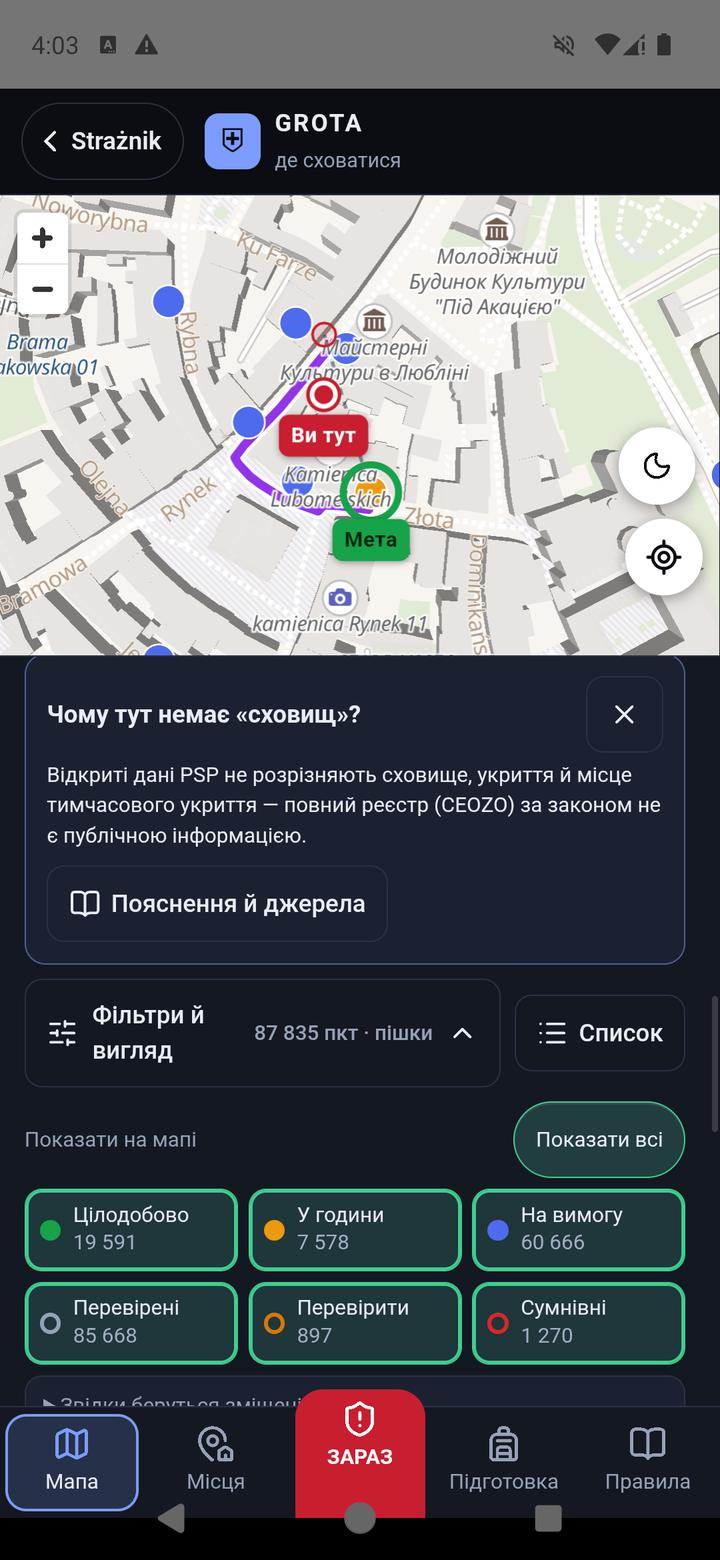
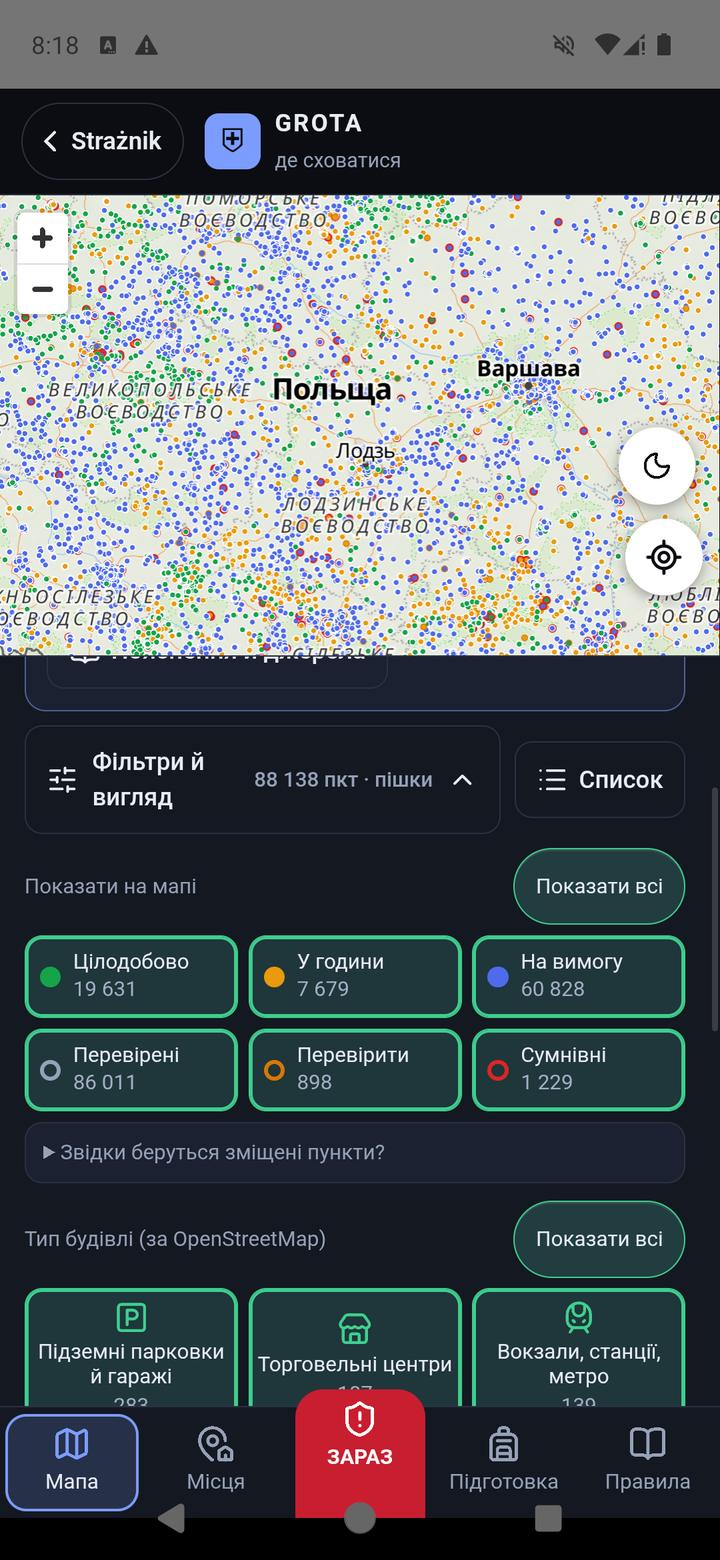
Instrukcja GROTY: zrzuty do wykazu z 02.11 i ostrzezenie kategoryczne
Wymienione g13 (liczniki filtrow), g29 (data wykazu) i g31 (ostrzezenie o
zmianie wykazu) w PL/EN/UK. g32 zostaje: spis miejscowosci nie zalezy od wykazu
PSP i po przebudowie wyszedl bajt w bajt taki sam.

g31 pokazuje teraz wariant KATEGORYCZNY ("Zapisane tu schronienie: ...",
"wybor nowego miejsca schronienia jest konieczny") — decyzja usera. Od 1.8.01
aplikacja zapamietuje date wykazu przy zapisie, a wszystkie wydania 1.8.02-1.8.05
niosly wykaz z 26.10, wiec po wejsciu wykazu z 02.11 to jest wariant, ktory
zobaczy kazdy normalnie aktualizujacy sie czlowiek. Wariant warunkowy zostaje
opisany slowami w rozdziale.

Przyklad na zrzucie: ul. Spacerowa 51, Peczniew (gm. Peczniew) — pod tym samym
numerem jest teraz ul. Polna 13/15, Poddebice, 19 km dalej.

Dwie rzeczy o metodzie, obie opisane w docs/screens/README.md:
- wszystkie dziewiec klatek pochodzi z budowy DEBUGOWEJ 1.8.06-136-TEST, bo
  wydanie bez DevTools wieszalo sie na emulatorze przy kazdym dluzszym
  przewijaniu (takze po restarcie z 4 GB zamiast 2 GB). Obie budowy sa z tego
  samego commita, maja ten sam modul i paczke, a na tych ekranach nic nie zalezy
  od typu budowy. Zrobione wczesniej polskie g13 i g29 z budowy podpisanej
  wyrzucilem, zeby kazdy ekran pochodzil z jednej budowy.
- stan do g31 zostal wpisany do pamieci aplikacji, bo przejscie go przez
  interfejs (1.8.05 -> zapis -> aktualizacja) padlo trzy razy na zawieszeniu przy
  przeliczaniu. Wpisane jest jedno miejsce z tym schronieniem i data wykazu
[…]

diff --git a/docs/grota-uk.html b/docs/grota-uk.html
@@ -29,7 +29,7 @@
     <h1>GROTA — де сховатися</h1>
     <p class="lead">GROTA — частина застосунку Strażnik («Вартовий»). Під час повітряної тривоги вона показує <b>найближчі місця укриття</b> з публічного переліку Державної пожежної служби Польщі (PSP) і веде до них. Заздалегідь допомагає зберегти укриття біля дому, роботи й школи, завантажити мапу на випадок відсутності інтернету та підготуватися за польським урядовим «Порадником безпеки».</p>
     <div class="actions"><a class="button primary" href="https://play.google.com/store/apps/details?id=pl.straznik.app">↓ Strażnik у Google Play</a><a class="button" href="https://github.com/cukierrro/Straznik/releases/latest/download/Straznik.apk">↓ Завантажити Strażnik для Android</a><a class="button" href="en.html">Посібник Strażnik (англійською)</a></div>
-    <p class="fineprint">З версії 1.7.72 GROTA працює <b>українською</b>, англійською та польською (розділ 8). Сам Strażnik (поза GROTA) має польську й англійську мови, тому його кнопки подаємо польською, а в дужках — англійською. Знімки: 22 вересня 2026, емулятор, позиція в Старому місті Любліна; списки підготовки і вкладку Правила перезняли 26 вересня 2026 у випуску 1.7.80, мапу й фільтри — 19 жовтня 2026 у випуску 1.7.99, а фільтри, дату переліку PSP і новий екран пошуку без інтернету — 26 жовтня 2026; попередження про зміну переліку зняте того ж дня на випуску 1.8.02, через справжнє оновлення зі старішої версії; адреси з переліку PSP залишаються польською. GROTA працює в застосунках для Android та iPhone; у браузерній версії її немає. Торкніться знімка, щоб відкрити його повністю. Переклад посібника — машинний з перевіркою; якщо помітите помилку, напишіть нам.</p>
+    <p class="fineprint">З версії 1.7.72 GROTA працює <b>українською</b>, англійською та польською (розділ 8). Сам Strażnik (поза GROTA) має польську й англійську мови, тому його кнопки подаємо польською, а в дужках — англійською. Знімки: 22 вересня 2026, емулятор, позиція в Старому місті Любліна; списки підготовки і вкладку Правила перезняли 26 вересня 2026 у випуску 1.7.80, мапу й фільтри — 19 жовтня 2026 у випуску 1.7.99, новий екран пошуку без інтернету — 26 жовтня 2026, а фільтри, дату переліку PSP і попередження про зміну переліку — 2 листопада 2026, після виходу переліку з того дня; адреси з переліку PSP залишаються польською. GROTA працює в застосунках для Android та iPhone; у браузерній версії її немає. Торкніться знімка, щоб відкрити його повністю. Переклад посібника — машинний з перевіркою; якщо помітите помилку, напишіть нам.</p>
   </div>
   <a class="shot-link" href="screens/grota/g04-teraz-propozycja-uk.jpg"><img src="screens/grota/g04-teraz-propozycja-uk.jpg" width="720" height="1560" alt="Екран ЗАРАЗ у GROTA: мапа Старого міста Любліна з маршрутом від «Ви тут» до мети, під нею картка «Найближче перевірене укриття — ul. Złota 2, Lublin» і велика зелена кнопка ВЕСТИ"></a>
 </div></header>
@@ -114,7 +114,7 @@
   <div class="shots"><figure><a class="shot-link" href="screens/grota/g30-lista-uk.jpg"><img loading="lazy" src="screens/grota/g30-lista-uk.jpg" width="720" height="1560" alt="Список найближчих пунктів: ul. Podwale 11 69 м, ul. Podwale 11 78 м, ul. Grodzka 5 102 м, ul. Zlota 2 107 м — з часом пішки, доступом і видом об'єкта"></a><figcaption>Ті самі пункти, що й на мапі, словами.</figcaption></figure></div>
   <h3>Фільтри й вигляд</h3>
   <p><kbd>Фільтри й вигляд</kbd> під мапою дозволяє показати лише вибрані пункти: за доступом (<kbd>Цілодобово</kbd>, <kbd>У години</kbd>, <kbd>На вимогу</kbd>), за певністю розташування (<kbd>Перевірені</kbd>, <kbd>Перевірити</kbd>, <kbd>Сумнівні</kbd>) і за <b>типом будівлі</b> (11 груп, наприклад підземні паркінги, багатоквартирні будинки, школи, лікарні). Кожна кнопка вмикає або вимикає свою групу; <kbd>Показати всі</kbd> позначає все, а натиснута ще раз — знімає позначки. Тут також вибираєте <kbd>Пішки</kbd>, <kbd>Велосипед</kbd> або <kbd>Автомобіль</kbd>.</p>
-  <div class="shots"><figure><a class="shot-link" href="screens/grota/g13-mapa-filtry-uk.jpg"><img loading="lazy" src="screens/grota/g13-mapa-filtry-uk.jpg" width="720" height="1560" alt="Фільтри: Цілодобово 19 591, У години 7 578, На вимогу 60 666, Перевірені 85 668, Перевірити 897, Сумнівні 1 270"></a><figcaption>Фільтри доступу і певності.</figcaption></figure><figure><a class="shot-link" href="screens/grota/g14-mapa-rodzaje-uk.jpg"><img loading="lazy" src="screens/grota/g14-mapa-rodzaje-uk.jpg" width="720" height="1560" alt="Тип будівлі (за OpenStreetMap): підземні паркінги, торгові центри, вокзали, багатоквартирні будинки, будинки, школи, лікарні, установи, офіси, культура, невідомий"></a><figcaption>Тип будівлі.</figcaption></figure></div>
+  <div class="shots"><figure><a class="shot-link" href="screens/grota/g13-mapa-filtry-uk.jpg"><img loading="lazy" src="screens/grota/g13-mapa-filtry-uk.jpg" width="720" height="1560" alt="Розгорнуті фільтри: Цілодобово 19 631, У години 7 679, На вимогу 60 828, Перевірені 86 011, Перевірити 898, Сумнівні 1 229, а нижче типи будівель — підземні паркінги й гаражі 283, торговельні центри 187, вокзали, станції, метро 139"></a><figcaption>Фільтри доступу і певності.</figcaption></figure><figure><a class="shot-link" href="screens/grota/g14-mapa-rodzaje-uk.jpg"><img loading="lazy" src="screens/grota/g14-mapa-rodzaje-uk.jpg" width="720" height="1560" alt="Тип будівлі (за OpenStreetMap): підземні паркінги, торгові центри, вокзали, багатоквартирні будинки, будинки, школи, лікарні, установи, офіси, культура, невідомий"></a><figcaption>Тип будівлі.</figcaption></figure></div>
   <div class="note">Фільтр мапи діє <b>лише на мапу</b>. ЗАРАЗ завжди шукає серед усіх перевірених пунктів, якщо ви самі не звузили вибір у «Вести до пунктів».</div>
   <p><b>Чому тут немає «сховищ»?</b> Під час першого відкриття GROTA пояснює, що публічні дані PSP не розрізняють сховище, укриття і тимчасове місце захисту, а повний реєстр за законом не є публічним. <kbd>Пояснення й джерела</kbd> веде до Правил.</p>
 </section>
@@ -139,7 +139,7 @@
     <li>Записаний маршрут до такого пункту застарів — GROTA ним не поведе і пояснить чому.</li>
     <li>Таке саме попередження побачите, коли пункт зникне з переліку (26 жовтня їх убуло 300).</li>
   </ul>
-  <div class="shots"><figure><a class="shot-link" href="screens/grota/g31-zmiana-wykazu-uk.jpg"><img loading="lazy" src="screens/grota/g31-zmiana-wykazu-uk.jpg" width="720" height="1560" alt="Картка місця Dom (укриття 1/3, пішки) з попередженням: Перелік PSP змінився — перевірте збережені укриття. У переліку PSP від 2026-09-14 під цим номером був 51a, Kromolice, гміна Pogorzela, а в переліку від 2026-10-26 тут os. Osiedle Gawrony 2, Gostyń — за 23 км; нова будівля зачинена («На вимогу»). Кнопки Вибрати нове укриття і Залишаю як є"></a><figcaption>Попередження після оновлення зі старішого випуску: два різні переліки й умовне «якщо тут збережено».</figcaption></figure></div>
+  <div class="shots"><figure><a class="shot-link" href="screens/grota/g31-zmiana-wykazu-uk.jpg"><img loading="lazy" src="screens/grota/g31-zmiana-wykazu-uk.jpg" width="720" height="1560" alt="Картка місця Dom (укриття 1/3, пішки) з попередженням: Перелік PSP змінився — перевірте збережені укриття. Збережене тут укриття: ul. Spacerowa 51, Pęczniew, гміна Pęczniew; у переліку PSP від 2026-11-02 під тим самим номером тепер інша будівля: ul. Polna 13/15, Poddębice — за 19 км. Вибір нового місця укриття є обов’язковим. Кнопки Вибрати нове укриття і Залишаю як є"></a><figcaption>Попередження біля укриття, збереженого перед зміною переліку.</figcaption></figure></div>
   <h3>Подробиці, нотатки й редагування</h3>
   <p>У подробицях місця видно розташування, <b>«Моє місце в будівлі»</b> (наприклад «коридор на першому поверсі, без вікон» — де сховатися, якщо не встигнете вийти) і вибрані укриття. Біля кожного укриття є поле <b>«Як увійти — години, хто відчиняє, контакт управителя (ваша нотатка)»</b>. Його варто заповнити після розмови з управителем. Олівець відкриває редагування: назва, розташування, вид, ваше місце в будівлі з прапорцем <b>«Я перевірив це місце на місці»</b>, короткий список підготовки і спосіб пересування. Зміни зберігаються самі. Кошик видаляє місце, а ручка ⋮⋮ змінює порядок.</p>
   <div class="shots"><figure><a class="shot-link" href="screens/grota/g17-miejsce-szczegoly-uk.jpg"><img loading="lazy" src="screens/grota/g17-miejsce-szczegoly-uk.jpg" width="720" height="1560" alt="Подробиці місця Дім: розташування, моє місце в будівлі, перевірене; пересування пішки"></a><figcaption>Подробиці місця.</figcaption></figure><figure><a class="shot-link" href="screens/grota/g18-miejsce-schronienia-uk.jpg"><img loading="lazy" src="screens/grota/g18-miejsce-schronienia-uk.jpg" width="720" height="1560" alt="Мої укриття 2/3: ul. Złota 2 з нотаткою і записаним маршрутом"></a><figcaption>Укриття з нотаткою і записаним маршрутом.</figcaption></figure></div>
@@ -175,7 +175,7 @@
 <section id="zasady">
   <h2>7. Вкладка Правила</h2>
 <p>GROTA не створює власних процедур. Кожна порада у вкладці <kbd>Правила</kbd> — цитата з польського урядового «Порадника безпеки» («Poradnik bezpieczeństwa», 1/2025) з номером сторінки: що робити, почувши сигнал тривоги, повітряна атака, укриття (що робити, якщо не встигаєте), евакуація, підготовка оточення і план на випадок кризи. Від випуску 1.7.80 є також окремий розділ <b>«Інструкція реагування МВС Польщі»</b> — цитати з матеріалу МВС Польщі та Державної пожежної служби від 25 вересня 2026 року: як вибрати приміщення, правило двох стін, коли не спускатися в підвал і де стати в підземному гаражі. Далі пояснення: чого порадник не визначає, чому в GROTA немає «сховищ», <b>наскільки свіжі пункти</b> (дата реєстру PSP і їх кількість, взяті прямо з пакета даних), обмеження даних, звідки беруться зміщені пункти, і джерела. <kbd>Закрити</kbd> повертає до попередньої вкладки.</p>
-  <div class="shots"><figure><a class="shot-link" href="screens/grota/g28-zasady-instrukcja-uk.jpg"><img loading="lazy" src="screens/grota/g28-zasady-instrukcja-uk.jpg" width="720" height="1560" alt="Розділ Інструкція реагування МВС Польщі у вкладці Правила: пояснення, що це за матеріал від 25 вересня 2026 року, і правило Коли встигаєте до пункту укриття зі сторінкою 4"></a><figcaption>Правила з інструкції МВС.</figcaption></figure><figure><a class="shot-link" href="screens/grota/g29-zasady-dane-uk.jpg"><img loading="lazy" src="screens/grota/g29-zasady-dane-uk.jpg" width="720" height="1560" alt="Розділ Наскільки свіжі пункти: пункти з відкритого реєстру Державної пожежної служби, станом на 26.10.2026, 87 835 у цій версії застосунку"></a><figcaption>Дата реєстру PSP.</figcaption></figure></div>
+  <div class="shots"><figure><a class="shot-link" href="screens/grota/g28-zasady-instrukcja-uk.jpg"><img loading="lazy" src="screens/grota/g28-zasady-instrukcja-uk.jpg" width="720" height="1560" alt="Розділ Інструкція реагування МВС Польщі у вкладці Правила: пояснення, що це за матеріал від 25 вересня 2026 року, і правило Коли встигаєте до пункту укриття зі сторінкою 4"></a><figcaption>Правила з інструкції МВС.</figcaption></figure><figure><a class="shot-link" href="screens/grota/g29-zasady-dane-uk.jpg"><img loading="lazy" src="screens/grota/g29-zasady-dane-uk.jpg" width="720" height="1560" alt="Розділ Наскільки свіжі пункти: пункти з відкритого реєстру Державної пожежної служби, станом на 02.11.2026, 88 138 у цій версії застосунку"></a><figcaption>Дата реєстру PSP.</figcaption></figure></div>
 </section>
 
 <section id="jezyk">

diff --git a/docs/grota.html b/docs/grota.html
@@ -29,7 +29,7 @@
     <h1>GROTA — gdzie się schronić</h1>
     <p class="lead">GROTA to część aplikacji Strażnik. Przy alarmie pokazuje <b>najbliższe miejsca schronienia</b> z publicznego wykazu Państwowej Straży Pożarnej i prowadzi do nich. Zawczasu pomaga zapisać schronienia przy domu, pracy i szkole, pobrać mapę na wypadek braku internetu i przygotować się według „Poradnika bezpieczeństwa”.</p>
     <div class="actions"><a class="button primary" href="https://play.google.com/store/apps/details?id=pl.straznik.app">↓ Strażnik w Google Play</a><a class="button" href="https://github.com/cukierrro/Straznik/releases/latest/download/Straznik.apk">↓ Pobierz Strażnika na Androida</a><a class="button" href="index.html">Instrukcja Strażnika</a></div>
-    <p class="fineprint">Zrzuty zrobiono 22 września 2026 w Strażniku 1.7.68, z pozycją na Starym Mieście w Lublinie; listy przygotowań i zakładkę Zasady odświeżono 26 września 2026 w wydaniu 1.7.80, mapę i filtry 19 października 2026 w wydaniu 1.7.99, a filtry, datę wykazu PSP i nowy ekran szukania bez internetu — 26 października 2026; ostrzeżenie o zmianie wykazu zrobiono tego samego dnia na wydaniu 1.8.02, przechodząc prawdziwą aktualizację ze starszej wersji. Adresy na zrzutach pochodzą z publicznego wykazu PSP. GROTA działa w aplikacji na Androida i na iPhone'a; <b>nie ma jej w wersji przeglądarkowej</b>. Od wersji 1.7.72 mówi po polsku, angielsku i ukraińsku (rozdział 8). Dotknij zdjęcia, aby otworzyć je w pełnym rozmiarze.</p>
+    <p class="fineprint">Zrzuty zrobiono 22 września 2026 w Strażniku 1.7.68, z pozycją na Starym Mieście w Lublinie; listy przygotowań i zakładkę Zasady odświeżono 26 września 2026 w wydaniu 1.7.80, mapę i filtry 19 października 2026 w wydaniu 1.7.99, nowy ekran szukania bez internetu — 26 października 2026, a filtry, datę wykazu PSP i ostrzeżenie o zmianie wykazu — 2 listopada 2026, po wejściu wykazu z tego dnia. Adresy na zrzutach pochodzą z publicznego wykazu PSP. GROTA działa w aplikacji na Androida i na iPhone'a; <b>nie ma jej w wersji przeglądarkowej</b>. Od wersji 1.7.72 mówi po polsku, angielsku i ukraińsku (rozdział 8). Dotknij zdjęcia, aby otworzyć je w pełnym rozmiarze.</p>
   </div>
   <a class="shot-link" href="screens/grota/g04-teraz-propozycja.jpg"><img src="screens/grota/g04-teraz-propozycja.jpg" width="720" height="1560" alt="Ekran TERAZ w GROCIE: mapa Starego Miasta w Lublinie z trasą od „Tu jesteś” do celu, a pod nią karta „Najbliższe sprawdzone miejsce schronienia — ul. Złota 2, Lublin, 218 m, ok. 3 min trasą” i duży zielony przycisk PROWADŹ"></a>
 </div></header>
@@ -114,7 +114,7 @@
   <div class="shots"><figure><a class="shot-link" href="screens/grota/g30-lista.jpg"><img loading="lazy" src="screens/grota/g30-lista.jpg" width="720" height="1560" alt="Lista najbliższych punktów: ul. Podwale 11 69 m, ul. Podwale 11 78 m, ul. Grodzka 5 102 m, ul. Złota 2 107 m — z czasem dojścia, dostępem i rodzajem obiektu"></a><figcaption>Te same punkty co na mapie, do przeczytania.</figcaption></figure></div>
   <h3>Filtry i widok</h3>
   <p><kbd>Filtry i widok</kbd> pod mapą pozwala pokazać tylko wybrane punkty: według dostępu (<kbd>Całodobowo</kbd>, <kbd>W godzinach</kbd>, <kbd>Na żądanie</kbd>), pewności położenia (<kbd>Sprawdzone</kbd>, <kbd>Do sprawdzenia</kbd>, <kbd>Wątpliwe</kbd>) i <b>rodzaju budynku</b> (11 grup, np. parkingi podziemne, bloki, szkoły, szpitale). Każdy przycisk włącza albo wyłącza swoją grupę; <kbd>Pokaż wszystkie</kbd> zaznacza wszystko, a naciśnięte ponownie — odznacza. Tu też wybierasz <kbd>Pieszo</kbd>, <kbd>Rower</kbd> albo <kbd>Samochód</kbd>.</p>
-  <div class="shots"><figure><a class="shot-link" href="screens/grota/g13-mapa-filtry.jpg"><img loading="lazy" src="screens/grota/g13-mapa-filtry.jpg" width="720" height="1560" alt="Filtry: Całodobowo 19 591, W godzinach 7578, Na żądanie 60 666, Sprawdzone 85 668, Do sprawdzenia 897, Wątpliwe 1270"></a><figcaption>Filtry dostępu i pewności.</figcaption></figure><figure><a class="shot-link" href="screens/grota/g14-mapa-rodzaje.jpg"><img loading="lazy" src="screens/grota/g14-mapa-rodzaje.jpg" width="720" height="1560" alt="Rodzaj budynku wg OpenStreetMap: parkingi podziemne, centra handlowe, dworce, bloki, domy, szkoły, szpitale, urzędy, biura, kultura, rodzaj nieznany"></a><figcaption>Rodzaj budynku.</figcaption></figure></div>
+  <div class="shots"><figure><a class="shot-link" href="screens/grota/g13-mapa-filtry.jpg"><img loading="lazy" src="screens/grota/g13-mapa-filtry.jpg" width="720" height="1560" alt="Rozwinięte filtry: Całodobowo 19 631, W godzinach 7679, Na żądanie 60 828, Sprawdzone 86 011, Do sprawdzenia 898, Wątpliwe 1229, a niżej rodzaje budynku — parkingi podziemne i garaże 283, centra handlowe 187, dworce, stacje, metro 139"></a><figcaption>Filtry dostępu i pewności.</figcaption></figure><figure><a class="shot-link" href="screens/grota/g14-mapa-rodzaje.jpg"><img loading="lazy" src="screens/grota/g14-mapa-rodzaje.jpg" width="720" height="1560" alt="Rodzaj budynku wg OpenStreetMap: parkingi podziemne, centra handlowe, dworce, bloki, domy, szkoły, szpitale, urzędy, biura, kultura, rodzaj nieznany"></a><figcaption>Rodzaj budynku.</figcaption></figure></div>
   <div class="note">Filtr mapy dotyczy <b>tylko mapy</b>. TERAZ zawsze szuka wśród wszystkich sprawdzonych punktów, chyba że sam zawęzisz wybór w „Prowadź do punktów”.</div>
   <p><b>Czemu nie ma tu „schronów”?</b> Przy pierwszym wejściu GROTA wyjaśnia, że publiczne dane PSP nie rozróżniają schronu, ukrycia i miejsca doraźnego schronienia, a pełna ewidencja z mocy ustawy nie jest jawna. <kbd>Wyjaśnienie i źródła</kbd> prowadzi do Zasad.</p>
 </section>
@@ -139,7 +139,7 @@
     <li>Nagrana trasa do takiego punktu jest nieaktualna — GROTA nią nie poprowadzi i powie dlaczego.</li>
     <li>To samo ostrzeżenie zobaczysz, gdy punkt zniknie z wykazu (26 października ubyło ich 300).</li>
   </ul>
-  <div class="shots"><figure><a class="shot-link" href="screens/grota/g31-zmiana-wykazu.jpg"><img loading="lazy" src="screens/grota/g31-zmiana-wykazu.jpg" width="720" height="1560" alt="Karta miejsca Dom (schronienia 1/3, pieszo) z ostrzeżeniem: Zmienił się wykaz PSP — sprawdź zapisane schronienia. W wykazie PSP z 2026-09-14 pod tym numerem był 51a, Kromolice, gm. Pogorzela, a w wykazie z 2026-10-26 jest tu os. Osiedle Gawrony 2, Gostyń — 23 km dalej; nowy obiekt jest zamknięty („Na żądanie”). Przyciski Wybierz nowe schronienie i Zostawiam jak jest"></a><figcaption>Ostrzeżenie po aktualizacji ze starszego wydania: dwa różne wykazy i warunkowe „jeśli zapisano tu”.</figcaption></figure></div>
+  <div class="shots"><figure><a class="shot-link" href="screens/grota/g31-zmiana-wykazu.jpg"><img loading="lazy" src="screens/grota/g31-zmiana-wykazu.jpg" width="720" height="1560" alt="Karta miejsca Dom (schronienia 1/3, pieszo) z ostrzeżeniem: Zmienił się wykaz PSP — sprawdź zapisane schronienia. Zapisane tu schronienie: ul. Spacerowa 51, Pęczniew, gm. Pęczniew; w wykazie PSP z 2026-11-02 pod tym samym numerem jest teraz inny obiekt: ul. Polna 13/15, Poddębice — 19 km dalej. Wybór nowego miejsca schronienia jest konieczny. Przyciski Wybierz nowe schronienie i Zostawiam jak jest"></a><figcaption>Ostrzeżenie przy schronieniu zapisanym przed zmianą wykazu.</figcaption></figure></div>
   <h3>Szczegóły, notatki i edycja</h3>
   <p>W szczegółach miejsca widać położenie, <b>„Moje miejsce w budynku”</b> (np. „korytarz na parterze, bez okien” — gdzie się schować, gdy nie zdążysz wyjść) i wybrane schronienia. Przy każdym schronieniu jest pole <b>„Jak wejść — godziny, kto otwiera, kontakt do zarządcy (Twoja notatka)”</b>. Warto je wypełnić po rozmowie z zarządcą. Ołówek otwiera edycję: nazwa, położenie, rodzaj, miejsce w budynku z polem „Sprawdziłem to miejsce na miejscu”, skrócona lista kontrolna i środek transportu. Zmiany zapisują się same („✓ Zapisano”). Kosz usuwa miejsce, a uchwyt ⋮⋮ zmienia kolejność.</p>
   <div class="shots"><figure><a class="shot-link" href="screens/grota/g17-miejsce-szczegoly.jpg"><img loading="lazy" src="screens/grota/g17-miejsce-szczegoly.jpg" width="720" height="1560" alt="Szczegóły miejsca Dom: położenie Lublin, ul. Królewska 4, moje miejsce w budynku korytarz na parterze bez okien, sprawdzone, środek transportu Pieszo"></a><figcaption>Szczegóły miejsca.</figcaption></figure><figure><a class="shot-link" href="screens/grota/g18-miejsce-schronienia.jpg"><img loading="lazy" src="screens/grota/g18-miejsce-schronienia.jpg" width="720" height="1560" alt="Moje miejsca schronienia 2/3: ul. Złota 2 z notatką Czynne 8–20, klucz u portiera i nagraną trasą 240 m, 3 min 25 s"></a><figcaption>Schronienie z notatką i nagraną trasą.</figcaption></figure></div>
@@ -175,7 +175,7 @@
 <section id="zasady">
   <h2>7. Zakładka Zasady</h2>
 <p>GROTA nie tworzy własnych procedur. Każde zalecenie w zakładce <kbd>Zasady</kbd> to cytat z „Poradnika bezpieczeństwa” (Rząd RP, 1/2025) z numerem strony: co robić po usłyszeniu sygnału alarmowego, atak z powietrza, schronienia (co robić, gdy nie zdążysz), ewakuacja, przygotowanie otoczenia i plan na kryzys. Od wydania 1.7.80 jest też osobny dział <b>„Instrukcja reagowania MSWiA”</b> — cytaty z materiału MSWiA i Państwowej Straży Pożarnej z 25 września 2026: jak wybrać pomieszczenie, zasada dwóch ścian, kiedy nie schodzić do piwnicy i gdzie stanąć w garażu podziemnym. Dalej są wyjaśnienia: czego poradnik nie określa, dlaczego w GROCIE nie ma „schronów”, <b>z kiedy są punkty</b> (data wykazu PSP i ich liczba, brane wprost z paczki w aplikacji), jakie są ograniczenia danych, skąd biorą się przesunięte punkty i źródła. <kbd>Zamknij</kbd> wraca do poprzedniej zakładki.</p>
-  <div class="shots"><figure><a class="shot-link" href="screens/grota/g27-zasady.jpg"><img loading="lazy" src="screens/grota/g27-zasady.jpg" width="720" height="1560" alt="Góra zakładki Zasady: karta wyboru języka, wyjaśnienie skąd pochodzą zalecenia i pierwszy dział Sygnały alarmowe"></a><figcaption>Zasady z poradnika.</figcaption></figure><figure><a class="shot-link" href="screens/grota/g28-zasady-instrukcja.jpg"><img loading="lazy" src="screens/grota/g28-zasady-instrukcja.jpg" width="720" height="1560" alt="Dział Instrukcja reagowania MSWiA w zakładce Zasady: wyjaśnienie, czym jest materiał z 25 września 2026, i zasada Gdy zdążysz do punktu schronienia ze stroną 4"></a><figcaption>Zasady z instrukcji MSWiA.</figcaption></figure><figure><a class="shot-link" href="screens/grota/g29-zasady-dane.jpg"><img loading="lazy" src="screens/grota/g29-zasady-dane.jpg" width="720" height="1560" alt="Sekcja Z kiedy są punkty: punkty z wykazu Komendy Głównej PSP, stan na 26.10.2026, 87 835 punktów w tej wersji aplikacji"></a><figcaption>Data wykazu PSP.</figcaption></figure></div>
+  <div class="shots"><figure><a class="shot-link" href="screens/grota/g27-zasady.jpg"><img loading="lazy" src="screens/grota/g27-zasady.jpg" width="720" height="1560" alt="Góra zakładki Zasady: karta wyboru języka, wyjaśnienie skąd pochodzą zalecenia i pierwszy dział Sygnały alarmowe"></a><figcaption>Zasady z poradnika.</figcaption></figure><figure><a class="shot-link" href="screens/grota/g28-zasady-instrukcja.jpg"><img loading="lazy" src="screens/grota/g28-zasady-instrukcja.jpg" width="720" height="1560" alt="Dział Instrukcja reagowania MSWiA w zakładce Zasady: wyjaśnienie, czym jest materiał z 25 września 2026, i zasada Gdy zdążysz do punktu schronienia ze stroną 4"></a><figcaption>Zasady z instrukcji MSWiA.</figcaption></figure><figure><a class="shot-link" href="screens/grota/g29-zasady-dane.jpg"><img loading="lazy" src="screens/grota/g29-zasady-dane.jpg" width="720" height="1560" alt="Sekcja Z kiedy są punkty: punkty z wykazu Komendy Głównej PSP, stan na 02.11.2026, 88 138 punktów w tej wersji aplikacji"></a><figcaption>Data wykazu PSP.</figcaption></figure></div>
 </section>
 
 <section id="jezyk">

diff --git a/docs/grota-en.html b/docs/grota-en.html
@@ -29,7 +29,7 @@
     <h1>GROTA — where to take shelter</h1>
     <p class="lead">GROTA is part of the Strażnik app. During an alert it shows the <b>nearest shelter points</b> from the public list of Poland's State Fire Service (PSP) and guides you there. In advance, it helps you save shelters near your home, work and school, download a map for when there is no internet, and prepare following the Polish government's Safety Guide.</p>
     <div class="actions"><a class="button primary" href="https://play.google.com/store/apps/details?id=pl.straznik.app">↓ Strażnik on Google Play</a><a class="button" href="https://github.com/cukierrro/Straznik/releases/latest/download/Straznik.apk">↓ Get Strażnik for Android</a><a class="button" href="en.html">Strażnik user guide</a></div>
-    <p class="fineprint">Since version 1.7.72 GROTA speaks <b>English, Ukrainian and Polish</b> (section 8). Screenshots: 22 September 2026, emulator, position in Lublin's Old Town; the preparation checklists and the Rules tab were retaken on 26 September 2026 in release 1.7.80, the map and filters on 19 October 2026 in release 1.7.99, and the filters, the PSP list date and a new screen for searching without the internet on 26 October 2026; the register-change warning was taken the same day on release 1.8.02, by walking a real update from an older version; addresses come from the public PSP list and stay in Polish. GROTA works in the Android and iPhone apps; it is <b>not part of the browser version</b>. Tap a screenshot to open it full size.</p>
+    <p class="fineprint">Since version 1.7.72 GROTA speaks <b>English, Ukrainian and Polish</b> (section 8). Screenshots: 22 September 2026, emulator, position in Lublin's Old Town; the preparation checklists and the Rules tab were retaken on 26 September 2026 in release 1.7.80, the map and filters on 19 October 2026 in release 1.7.99, a new screen for searching without the internet on 26 October 2026, and the filters, the PSP list date and the register-change warning on 2 November 2026, after that day's register came in; addresses come from the public PSP list and stay in Polish. GROTA works in the Android and iPhone apps; it is <b>not part of the browser version</b>. Tap a screenshot to open it full size.</p>
   </div>
   <a class="shot-link" href="screens/grota/g04-teraz-propozycja-en.jpg"><img src="screens/grota/g04-teraz-propozycja-en.jpg" width="720" height="1560" alt="GROTA's NOW screen: a map of Lublin's Old Town with a route from “You are here” to the goal, and below it the card “Nearest verified shelter — ul. Złota 2, Lublin” with a big green NAVIGATE button"></a>
 </div></header>
@@ -114,7 +114,7 @@
   <div class="shots"><figure><a class="shot-link" href="screens/grota/g30-lista-en.jpg"><img loading="lazy" src="screens/grota/g30-lista-en.jpg" width="720" height="1560" alt="A list of the nearest points: ul. Podwale 11 69 m, ul. Podwale 11 78 m, ul. Grodzka 5 102 m, ul. Zlota 2 107 m — with walking time, access and type of facility"></a><figcaption>The same points as on the map, in words.</figcaption></figure></div>
   <h3>Filters and view</h3>
   <p><kbd>Filters and view</kbd> under the map shows only selected points: by access (<kbd>24 hours</kbd>, <kbd>During hours</kbd>, <kbd>On request</kbd>), by location certainty (<kbd>Verified</kbd>, <kbd>To check</kbd>, <kbd>Doubtful</kbd>) and by <b>building type</b> (11 groups, e.g. underground car parks, blocks of flats, schools, hospitals). Each button toggles its group; <kbd>Show all</kbd> selects everything, and pressed again — clears it. Here you also choose <kbd>On foot</kbd>, <kbd>Bike</kbd> or <kbd>Car</kbd>.</p>
-  <div class="shots"><figure><a class="shot-link" href="screens/grota/g13-mapa-filtry-en.jpg"><img loading="lazy" src="screens/grota/g13-mapa-filtry-en.jpg" width="720" height="1560" alt="Filters: 24 hours 19,591, During hours 7,578, On request 60,666, Verified 85,668, To check 897, Doubtful 1,270"></a><figcaption>Access and certainty filters.</figcaption></figure><figure><a class="shot-link" href="screens/grota/g14-mapa-rodzaje-en.jpg"><img loading="lazy" src="screens/grota/g14-mapa-rodzaje-en.jpg" width="720" height="1560" alt="Building type (per OpenStreetMap): underground car parks, shopping centres, stations, blocks of flats, houses, schools, hospitals, offices, businesses, culture, unknown"></a><figcaption>Building type.</figcaption></figure></div>
+  <div class="shots"><figure><a class="shot-link" href="screens/grota/g13-mapa-filtry-en.jpg"><img loading="lazy" src="screens/grota/g13-mapa-filtry-en.jpg" width="720" height="1560" alt="The filters expanded: 24 hours 19,631, During hours 7,679, On request 60,828, Verified 86,011, To check 898, Doubtful 1,229, and below them building types — underground car parks and garages 283, shopping centres 187, stations and metro 139"></a><figcaption>Access and certainty filters.</figcaption></figure><figure><a class="shot-link" href="screens/grota/g14-mapa-rodzaje-en.jpg"><img loading="lazy" src="screens/grota/g14-mapa-rodzaje-en.jpg" width="720" height="1560" alt="Building type (per OpenStreetMap): underground car parks, shopping centres, stations, blocks of flats, houses, schools, hospitals, offices, businesses, culture, unknown"></a><figcaption>Building type.</figcaption></figure></div>
   <div class="note">The map filter affects <b>only the map</b>. NOW always searches among all verified points, unless you narrow the choice in “Guide to points”.</div>
   <p><b>Why are there no “bunkers” here?</b> On the first visit GROTA explains that the public PSP data does not distinguish a bunker, a shelter and a makeshift refuge, and the full register is not public by law. <kbd>Explanation and sources</kbd> leads to the Rules.</p>
 </section>
@@ -139,7 +139,7 @@
     <li>A route you recorded to such a point is out of date — GROTA will not guide you along it and will say why.</li>
     <li>You will see the same warning when a point disappears from the list (300 were removed on 26 October).</li>
   </ul>
-  <div class="shots"><figure><a class="shot-link" href="screens/grota/g31-zmiana-wykazu-en.jpg"><img loading="lazy" src="screens/grota/g31-zmiana-wykazu-en.jpg" width="720" height="1560" alt="The place card Dom (shelters 1/3, on foot) with the warning: The PSP list has changed — check your saved shelters. In the PSP register of 2026-09-14 this number pointed to 51a, Kromolice, Pogorzela municipality, and in the register of 2026-10-26 it points to os. Osiedle Gawrony 2, Gostyń — 23 km away; the new building is locked (“On request”). Buttons Choose a new shelter and Leave it as it is"></a><figcaption>The warning after updating from an older release: two different registers and the conditional “if what was saved here”.</figcaption></figure></div>
+  <div class="shots"><figure><a class="shot-link" href="screens/grota/g31-zmiana-wykazu-en.jpg"><img loading="lazy" src="screens/grota/g31-zmiana-wykazu-en.jpg" width="720" height="1560" alt="The place card Dom (shelters 1/3, on foot) with the warning: The PSP list has changed — check your saved shelters. The shelter saved here: ul. Spacerowa 51, Pęczniew, Pęczniew municipality; in the PSP list of 2026-11-02 the same number now points to a different building: ul. Polna 13/15, Poddębice — 19 km away. Choosing a new shelter is necessary. Buttons Choose a new shelter and Leave it as it is"></a><figcaption>The warning at a shelter saved before the register changed.</figcaption></figure></div>
   <h3>Details, notes and editing</h3>
   <p>A place's details show its location, <b>“My spot in the building”</b> (e.g. “ground-floor corridor, no windows” — where to hide if you can't get out in time) and the chosen shelters. Each shelter has a field <b>“How to get in — hours, who opens it, building manager's contact (your note)”</b>. It is worth filling in after talking to the manager. The pencil opens editing: name, location, type, your spot in the building with a tick <b>“I have checked this spot on site”</b>, a short checklist and the means of transport. Changes save themselves. The bin deletes a place, and the ⋮⋮ handle changes the order.</p>
   <div class="shots"><figure><a class="shot-link" href="screens/grota/g17-miejsce-szczegoly-en.jpg"><img loading="lazy" src="screens/grota/g17-miejsce-szczegoly-en.jpg" width="720" height="1560" alt="Details of the place Home: location, my spot in the building, verified; transport on foot"></a><figcaption>Place details.</figcaption></figure><figure><a class="shot-link" href="screens/grota/g18-miejsce-schronienia-en.jpg"><img loading="lazy" src="screens/grota/g18-miejsce-schronienia-en.jpg" width="720" height="1560" alt="My shelters 2/3: ul. Złota 2 with a note and a recorded route"></a><figcaption>A shelter with a note and a recorded route.</figcaption></figure></div>
@@ -175,7 +175,7 @@
 <section id="zasady">
   <h2>7. The Rules tab</h2>
 <p>GROTA does not make up its own procedures. Every recommendation in the <kbd>Rules</kbd> tab is a quote from the Polish government's Safety Guide (“Poradnik bezpieczeństwa”, 1/2025) with its page number: what to do when you hear an alert signal, an air attack, shelters (what to do if you can't make it in time), evacuation, preparing your surroundings and a crisis plan. Since release 1.7.80 there is also a separate section <b>“Response instruction, Ministry of the Interior”</b> — quotes from the document published by the Ministry of the Interior and the State Fire Service on 25 September 2026: how to choose a room, the two-wall rule, when not to go down to a basement and where to stand in an underground garage. Then come explanations: what the guide does not specify, why GROTA has no “bunkers”, <b>how current the points are</b> (the date of the PSP register and how many points this build holds, both taken straight from the data pack), the limits of the data, where misplaced points come from, and the sources. <kbd>Close</kbd> returns to the previous tab.</p>
-  <div class="shots"><figure><a class="shot-link" href="screens/grota/g28-zasady-instrukcja-en.jpg"><img loading="lazy" src="screens/grota/g28-zasady-instrukcja-en.jpg" width="720" height="1560" alt="The Response instruction section in the Rules tab: what the 25 September 2026 document is, and the rule When you can reach a shelter point in time with page 4"></a><figcaption>Rules from the ministry's instruction.</figcaption></figure><figure><a class="shot-link" href="screens/grota/g29-zasady-dane-en.jpg"><img loading="lazy" src="screens/grota/g29-zasady-dane-en.jpg" width="720" height="1560" alt="The How current the points are section: points from the public register of the State Fire Service, as of 26.10.2026, 87,835 in this version of the app"></a><figcaption>The date of the PSP register.</figcaption></figure></div>
+  <div class="shots"><figure><a class="shot-link" href="screens/grota/g28-zasady-instrukcja-en.jpg"><img loading="lazy" src="screens/grota/g28-zasady-instrukcja-en.jpg" width="720" height="1560" alt="The Response instruction section in the Rules tab: what the 25 September 2026 document is, and the rule When you can reach a shelter point in time with page 4"></a><figcaption>Rules from the ministry's instruction.</figcaption></figure><figure><a class="shot-link" href="screens/grota/g29-zasady-dane-en.jpg"><img loading="lazy" src="screens/grota/g29-zasady-dane-en.jpg" width="720" height="1560" alt="The How current the points are section: points from the public register of the State Fire Service, as of 02.11.2026, 88,138 in this version of the app"></a><figcaption>The date of the PSP register.</figcaption></figure></div>
 </section>
 
 <section id="jezyk">

diff --git a/docs/screens/README.md b/docs/screens/README.md
@@ -133,6 +133,44 @@ that still held the old address, so the same date stood on both sides of it. Tha
 release 1.8.01 and is fixed in 1.8.02; finding it on screen is why these frames were retaken
 from the release build.
 
+The GROTA captures `g13-mapa-filtry*`, `g29-zasady-dane*` and `g31-zmiana-wykazu*` (Polish,
+`-en`, `-uk`) were retaken on 2 November 2026 between 08:08 and 09:33 Europe/Warsaw, after the
+PSP register of that day came in (88,138 points, up from 87,835). All nine frames come from
+`Straznik-1.8.06-136-TEST-debug.apk`, a test build from the main session carrying the module
+8f6e4c98a5 and the register of 2 November, on the Pixel 7 emulator with Android 14 at
+`wm size 1080x2340`, then downscaled to 720 x 1560 JPEG. Nothing in them is retouched. The
+counters in `g13-*` are the ones the pack really holds and were cross-checked against the pack
+before the capture: 19,631 / 7,679 / 60,828 by access and 86,011 / 898 / 1,229 by location
+certainty.
+
+Two things about this series differ from the one of 26 October and are worth stating.
+
+First, these frames come from a **debug** build, not from the signed one. The signed test build
+has no WebView DevTools, and on this emulator the release build could not be driven reliably:
+with 88 thousand points it hung ("Strażnik isn't responding") on almost every longer scroll,
+even after the emulator was restarted with 4 GB instead of 2 GB. The debug build allows exact
+scrolling through DevTools in one call instead of thirty swipes. Both builds were produced from
+the same commit and carry the same GROTA module and the same pack; nothing in these three
+screens depends on the build type. The signed build was used first and did produce usable
+Polish frames of `g13` and `g29`, but they were discarded so that each screen comes from one
+and the same build.
+
+Second, the state behind `g31-zmiana-wykazu*` was written into the app's storage instead of
+being walked through the interface. The warning in its unconditional wording needs a shelter
+saved while the app still carried an older register; the attempt to produce that by installing
+release 1.8.05, saving the shelter and updating over it failed three times, because the app
+hung while recomputing after the selection and the save was lost. What was written is one
+place, "Dom", at the coordinates of the shelter `OZO-77191AD48DDA` in Pęczniew, with that
+shelter selected and the register date 2026-10-26 recorded against it — the state every person
+has who saved this point while running 1.8.01 through 1.8.05, all of which shipped the register
+of 26 October. Everything the warning says is what the app computed from the two packs: that
+the number now points to ul. Polna 13/15 in Poddębice, 19 km away, and that a new shelter must
+be chosen. The place itself is made up; the change is real.
+
+`g32-adres-imiennicy*` was not retaken. The list of localities does not come from the PSP
+register — it is built from OpenStreetMap and TERYT — and this rebuild produced a
+byte-identical file, so the screen it shows has not changed.
+
 There is deliberately no screenshot for "When the map gets old": the offline map packs have not
 been rebuilt since that code was written, so no device can honestly show the "There is a newer
 map" line yet. The section is described in words until a newer pack exists.
